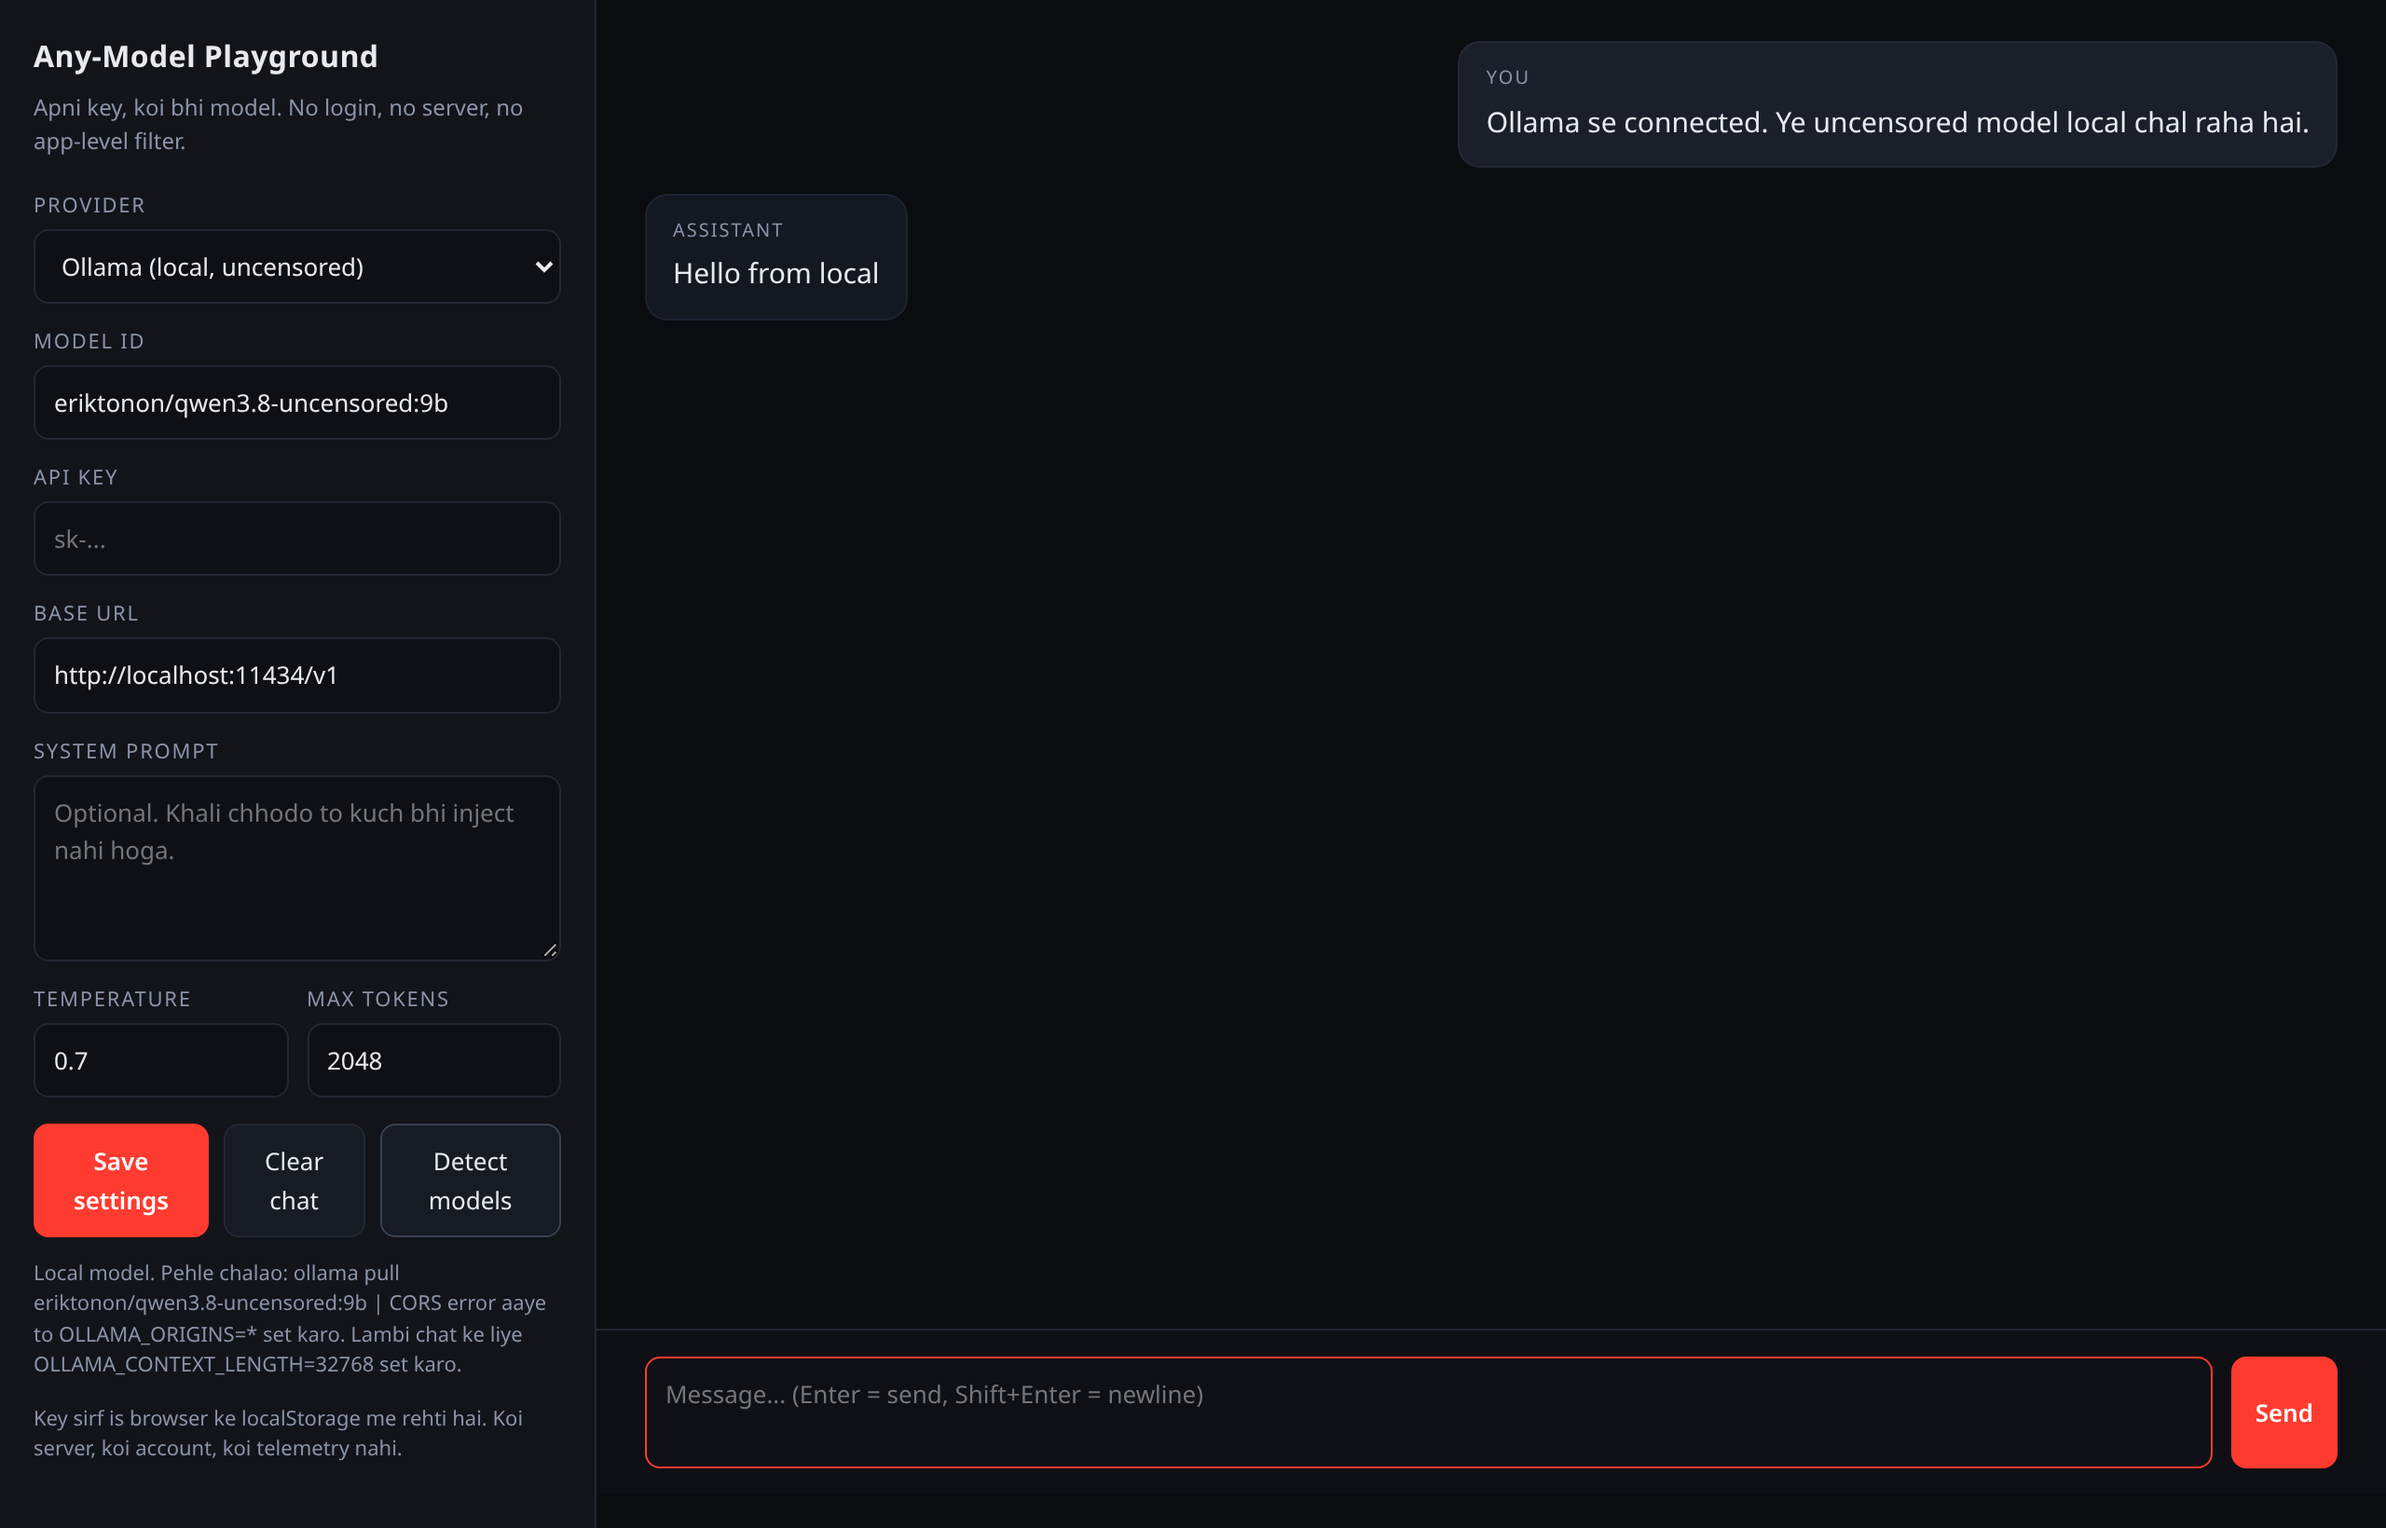
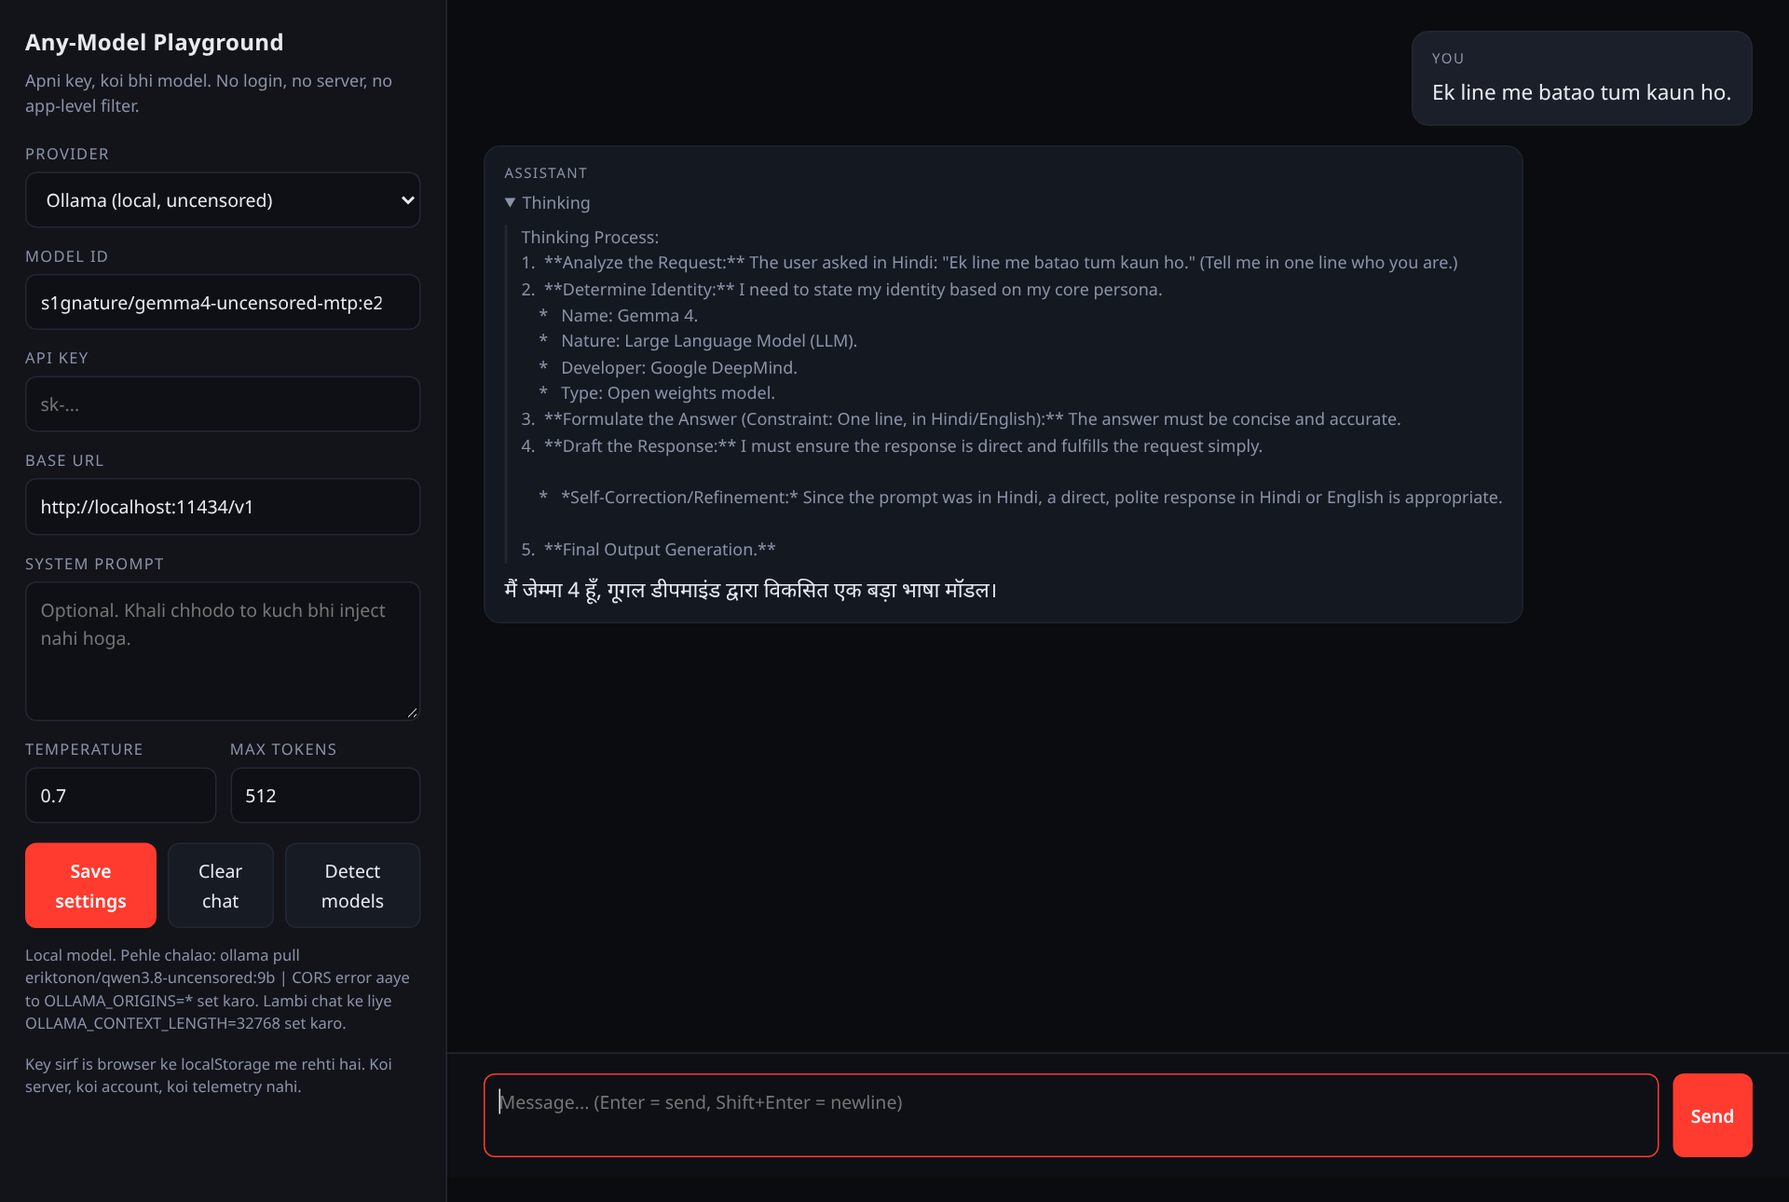
Codespaces support: devcontainer + ollama bootstrap script (no localhost needed); show model reasoning stream

diff --git a/index.html b/index.html
@@ -50,6 +50,9 @@
   .msg.user{align-self:flex-end; background:var(--user); border:1px solid var(--line)}
   .msg.assistant{align-self:flex-start; background:var(--bot); border:1px solid #1d2230}
   .who{font-size:10px; letter-spacing:.1em; text-transform:uppercase; color:var(--dim); margin-bottom:5px}
+  details.think{margin:0 0 8px; font-size:12px; color:var(--dim)}
+  details.think summary{cursor:pointer; color:var(--dim); outline:none; user-select:none}
+  details.think .think-body{margin-top:6px; padding-left:10px; border-left:2px solid var(--line); white-space:pre-wrap}
   form{display:flex; gap:10px; padding:14px 26px; border-top:1px solid var(--line); background:#0d0f14}
   #input{flex:1; min-height:46px; max-height:180px; resize:none}
   #status{font-size:12px; padding:0 26px 12px; color:var(--dim); min-height:18px}
@@ -164,6 +167,8 @@ const STORE = 'amp.settings.v1';
 let messages = [];
 let controller = null;
 let liveEl = null;
+let liveThinkEl = null;
+let liveThink = null;
 
 function readStore(){
   try { return JSON.parse(localStorage.getItem(STORE)) || {}; } catch(e){ return {}; }
@@ -213,7 +218,9 @@ function updateNote(){
   let text, warn = !p.cors;
 
   if(name === 'ollama'){
-    text = 'Local model. Pehle chalao: ollama pull ' + model +
+    const remote = !/localhost|127\.0\.0\.1/.test(baseInput.value);
+    text = (remote ? 'Remote Ollama (Codespaces/cloud). Model pehle pull hona chahiye: ollama pull ' + model
+                   : 'Local model. Pehle chalao: ollama pull ' + model) +
       '  |  CORS error aaye to OLLAMA_ORIGINS=* set karo. Lambi chat ke liye OLLAMA_CONTEXT_LENGTH=32768 set karo.';
   } else {
     text = p.cors
@@ -278,10 +285,23 @@ function bubble(m){
   const who = document.createElement('div');
   who.className = 'who';
   who.textContent = m.role === 'user' ? 'You' : 'Assistant';
+  d.appendChild(who);
+  if(m.role !== 'user'){
+    const det = document.createElement('details');
+    det.className = 'think';
+    if(!m.think) det.hidden = true;
+    const sum = document.createElement('summary');
+    sum.textContent = 'Thinking';
+    const tb = document.createElement('div');
+    tb.className = 'think-body';
+    tb.textContent = m.think || '';
+    det.appendChild(sum); det.appendChild(tb);
+    d.appendChild(det);
+  }
   const body = document.createElement('div');
   body.className = 'body';
   body.textContent = m.content;
-  d.appendChild(who); d.appendChild(body);
+  d.appendChild(body);
   return d;
 }
 
@@ -296,11 +316,23 @@ function render(){
     return;
   }
   for(const m of messages) chatEl.appendChild(bubble(m));
-  liveEl = chatEl.lastElementChild ? chatEl.lastElementChild.querySelector('.body') : null;
+  const last = chatEl.lastElementChild;
+  liveEl = last ? last.querySelector('.body') : null;
+  liveThinkEl = last ? last.querySelector('details.think') : null;
+  liveThink = last ? last.querySelector('.think-body') : null;
   scroll();
 }
 
 function scroll(){ chatEl.scrollTop = chatEl.scrollHeight; }
+
+function updateLive(a){
+  if(liveThink){
+    liveThink.textContent = a.think || '';
+    if(liveThinkEl) liveThinkEl.hidden = !a.think;
+  }
+  if(liveEl) liveEl.textContent = a.content;
+  scroll();
+}
 
 function setBusy(b){
   sendBtn.disabled = b;
@@ -358,7 +390,7 @@ function sseReader(res, onEvent){
   })();
 }
 
-async function streamOpenAI(c, msgs, onDelta){
+async function streamOpenAI(c, msgs, onDelta, onThink){
   const headers = {'Content-Type':'application/json'};
   if(c.key) headers['Authorization'] = 'Bearer ' + c.key;
   if(c.name === 'openrouter'){ headers['HTTP-Referer'] = location.href; headers['X-Title'] = 'Any-Model Playground'; }
@@ -371,13 +403,15 @@ async function streamOpenAI(c, msgs, onDelta){
   if(!res.ok) throw new Error(await errText(res));
   await sseReader(res, j => {
     const ch = j.choices && j.choices[0];
-    if(!ch) return;
-    const d = ch.delta && ch.delta.content;
-    if(typeof d === 'string' && d) onDelta(d);
+    if(!ch || !ch.delta) return;
+    const cont = ch.delta.content;
+    if(typeof cont === 'string' && cont) onDelta(cont);
+    const think = ch.delta.reasoning || ch.delta.reasoning_content;
+    if(typeof think === 'string' && think) onThink(think);
   });
 }
 
-async function streamAnthropic(c, msgs, onDelta){
+async function streamAnthropic(c, msgs, onDelta, onThink){
   const body = {
     model: c.model,
     max_tokens: c.maxTokens,
@@ -399,12 +433,15 @@ async function streamAnthropic(c, msgs, onDelta){
   });
   if(!res.ok) throw new Error(await errText(res));
   await sseReader(res, j => {
-    if(j.type === 'content_block_delta' && j.delta && typeof j.delta.text === 'string') onDelta(j.delta.text);
+    if(j.type === 'content_block_delta' && j.delta){
+      if(j.delta.type === 'thinking_delta' && typeof j.delta.thinking === 'string') onThink(j.delta.thinking);
+      else if(typeof j.delta.text === 'string' && j.delta.text) onDelta(j.delta.text);
+    }
     if(j.type === 'error' && j.error) throw new Error(j.error.message || 'stream error');
   });
 }
 
-async function streamGemini(c, msgs, onDelta){
+async function streamGemini(c, msgs, onDelta, onThink){
   const url = c.base + '/models/' + encodeURIComponent(c.model) + ':streamGenerateContent?alt=sse';
   const body = {
     contents: msgs.map(m => ({role: m.role === 'assistant' ? 'model' : 'user', parts:[{text: m.content}]})),
@@ -421,7 +458,10 @@ async function streamGemini(c, msgs, onDelta){
   await sseReader(res, j => {
     const cand = j.candidates && j.candidates[0];
     if(!cand || !cand.content || !cand.content.parts) return;
-    for(const part of cand.content.parts) if(typeof part.text === 'string' && part.text) onDelta(part.text);
+    for(const part of cand.content.parts){
+      if(typeof part.text !== 'string' || !part.text) continue;
+      if(part.thought) onThink(part.text); else onDelta(part.text);
+    }
   });
 }
 
@@ -442,17 +482,16 @@ async function run(){
   inputEl.value = '';
   render();
 
-  const onDelta = t => {
-    a.content += t;
-    if(liveEl){ liveEl.textContent = a.content; scroll(); }
-  };
+  const onDelta = t => { a.content += t; updateLive(a); };
+  const onThink = t => { a.think = (a.think || '') + t; updateLive(a); };
   const history = messages.slice(0, -1).map(m => ({role:m.role, content:m.content}));
 
   try {
-    if(c.kind === 'anthropic') await streamAnthropic(c, history, onDelta);
-    else if(c.kind === 'gemini') await streamGemini(c, history, onDelta);
-    else await streamOpenAI(c, history, onDelta);
-    if(!a.content) a.content = '(empty response)';
+    if(c.kind === 'anthropic') await streamAnthropic(c, history, onDelta, onThink);
+    else if(c.kind === 'gemini') await streamGemini(c, history, onDelta, onThink);
+    else await streamOpenAI(c, history, onDelta, onThink);
+    if(!a.content && a.think) a.content = '(thinking me hi token khatam ho gaye, max tokens badhao)';
+    else if(!a.content) a.content = '(empty response)';
   } catch(e){
     if(e.name === 'AbortError'){
       a.content += (a.content ? '\n\n' : '') + '[stopped]';

diff --git a/README.md b/README.md
@@ -48,6 +48,37 @@ python3 -m http.server 8000
 
 Deployed Pages URL cloud providers (Groq, OpenRouter, Anthropic, Gemini) ke liye hai.
 
+## GitHub Codespaces (model cloud me chalta hai, laptop pe kuch nahi)
+
+Repo me devcontainer ready hai. Model codespace ke andar download hota hai, tumhare localhost pe nahi.
+
+1. Repo kholo -> **Code -> Codespaces -> Create codespace on main**. Free 2-core / 8 GB machine kaafi hai.
+2. Pehli baar `scripts/start-ollama.sh` khud chalta hai: Ollama install, `ollama serve`, model pull. (Manual: `bash scripts/start-ollama.sh`.)
+3. **Ports** tab -> port **11434** -> visibility **Public**.
+4. Us port ka URL copy karo, shape: `https://<codespace-name>-11434.app.github.dev`
+5. Playground kholo, provider **Ollama**, Base URL me `<wo URL>/v1` paste karo, Model field me pulled model ka naam, Send.
+
+Machine size ke hisaab se model:
+
+| Codespace machine | RAM | Model |
+|---|---|---|
+| 2-core (free) | 8 GB | `s1gnature/gemma4-uncensored-mtp:e2b-q4_k_m` (3.6 GB) |
+| 4-core | 16 GB | `s1gnature/gemma4-uncensored-mtp:e4b-q4_k_m` (6.5 GB) ya `eriktonon/qwen3.8-uncensored:9b` (6.3 GB) |
+| 8-core+ | 32 GB | `abliterant/qwen3.8-rana:q4_K_M` (17.5 GB) |
+
+Doosra model chahiye to:
+
+```bash
+OLLAMA_MODEL=eriktonon/qwen3.8-uncensored:9b bash scripts/start-ollama.sh
+```
+
+Dhyan rakho:
+
+- Port public karne ka matlab, jis ke paas URL hai wo bhi model use kar sakta hai jab tak codespace chalu hai. Kaam khatam hone pe codespace **Stop** karo.
+- Free tier: 120 core-hours/month (2-core = ~60 ghante chalu) aur 15 GB-month storage.
+- Codespace stop/hibernate hone ke baad `postStartCommand` Ollama phir start kar deta hai, model disk pe rehta hai, dobara pull nahi hoga.
+- Thinking models (gemma4, qwen3.8) apna reasoning "Thinking" panel me dikhate hain. Max tokens kam hua to jawab thinking me hi khatam ho sakta hai.
+
 ## Cloud providers (CORS)
 
 Groq, OpenRouter, Anthropic aur Gemini browser se direct chalte hain. OpenAI, Mistral, DeepSeek, xAI browser CORS band rakhte hain, unke liye proxy chalao:
